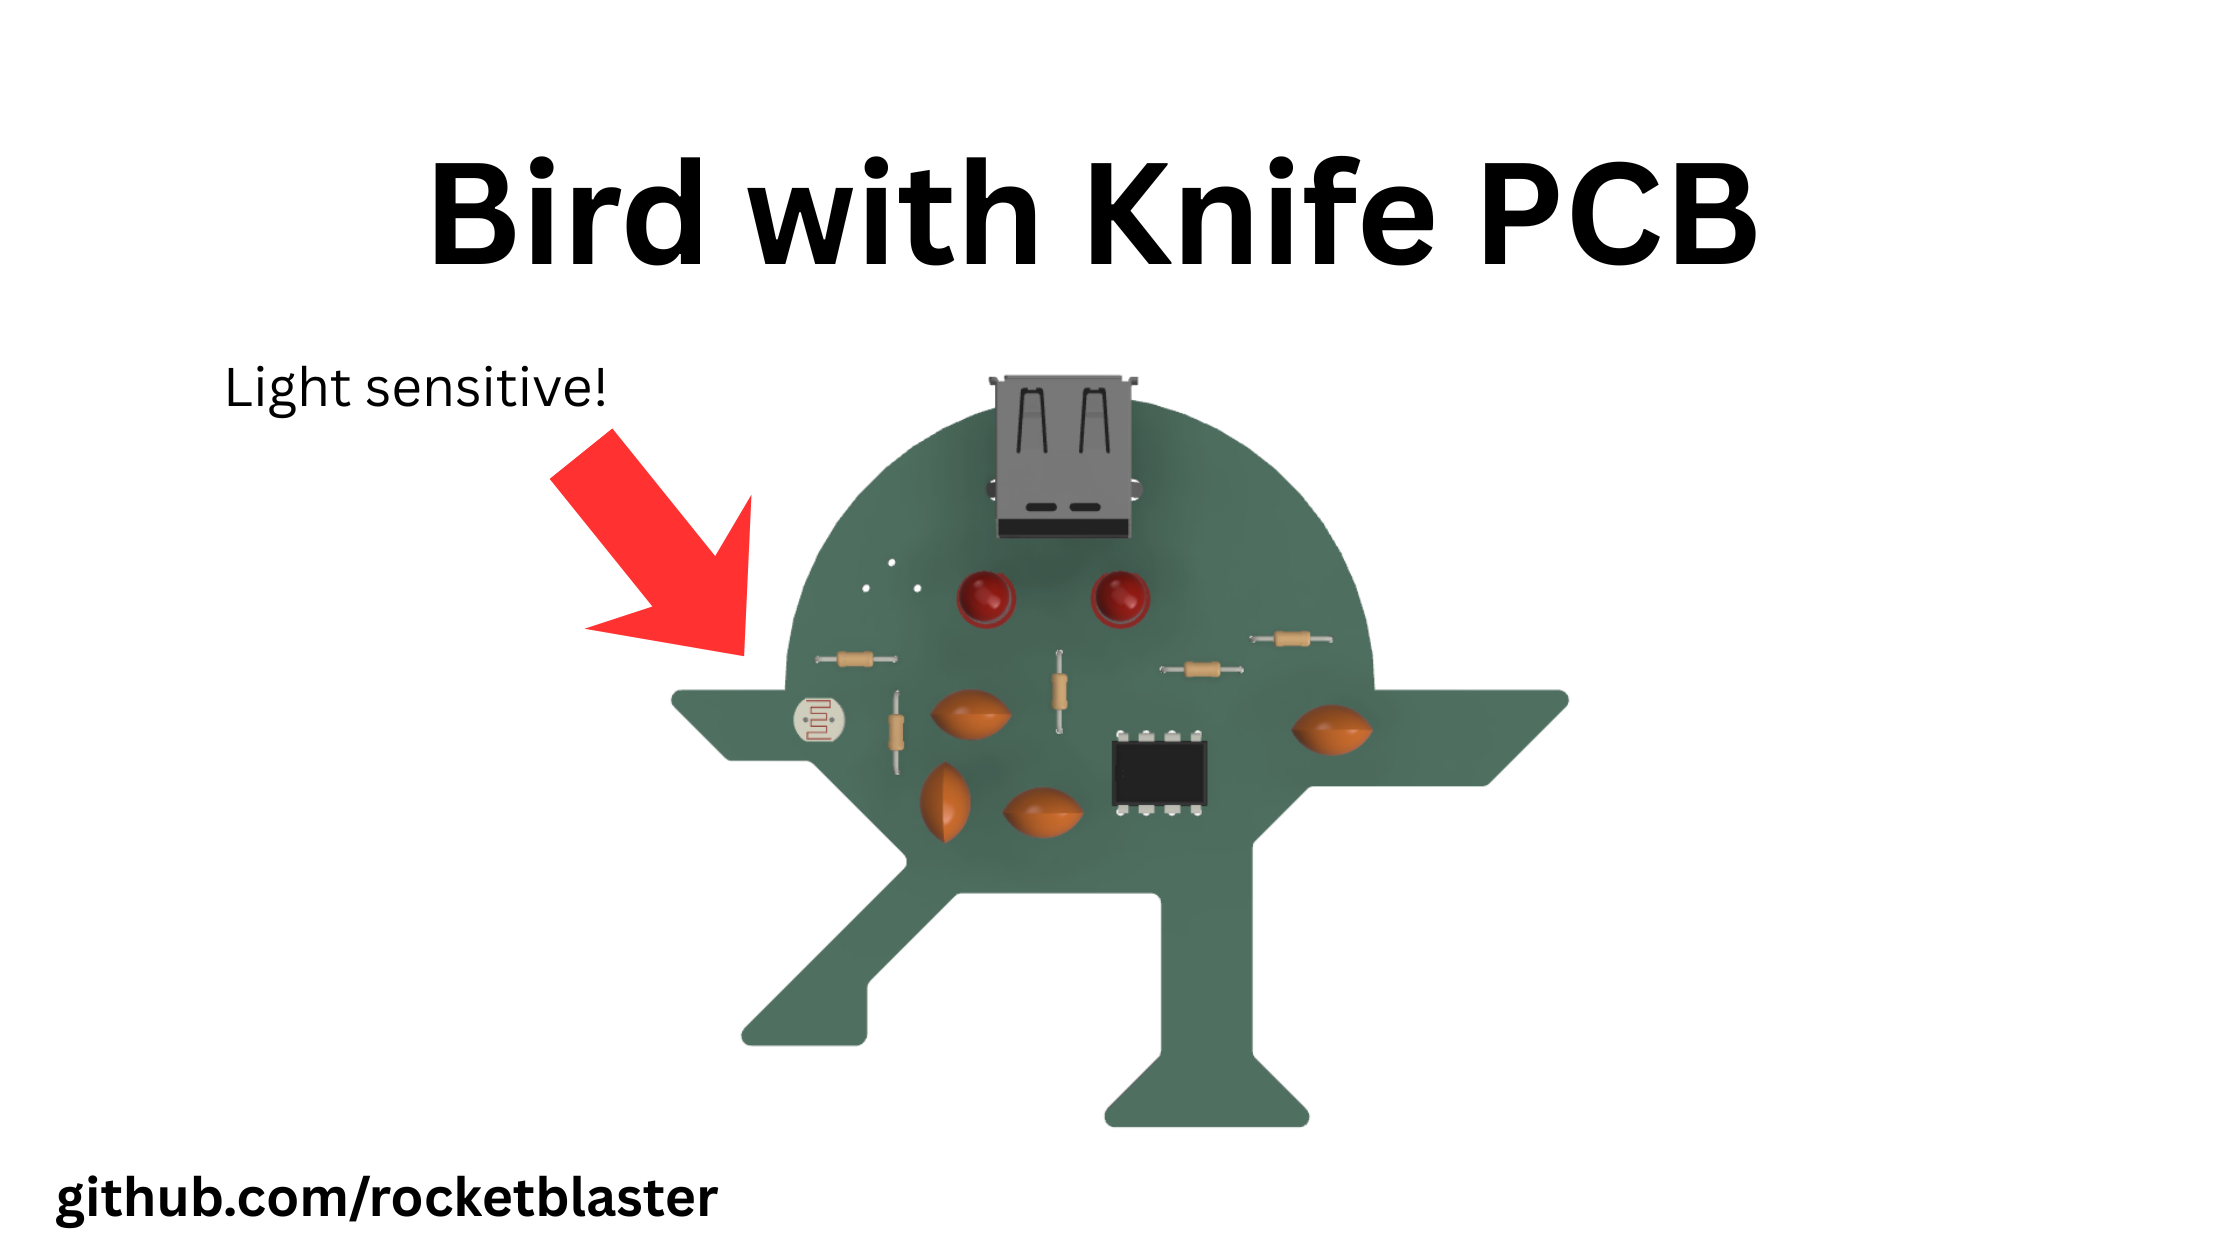
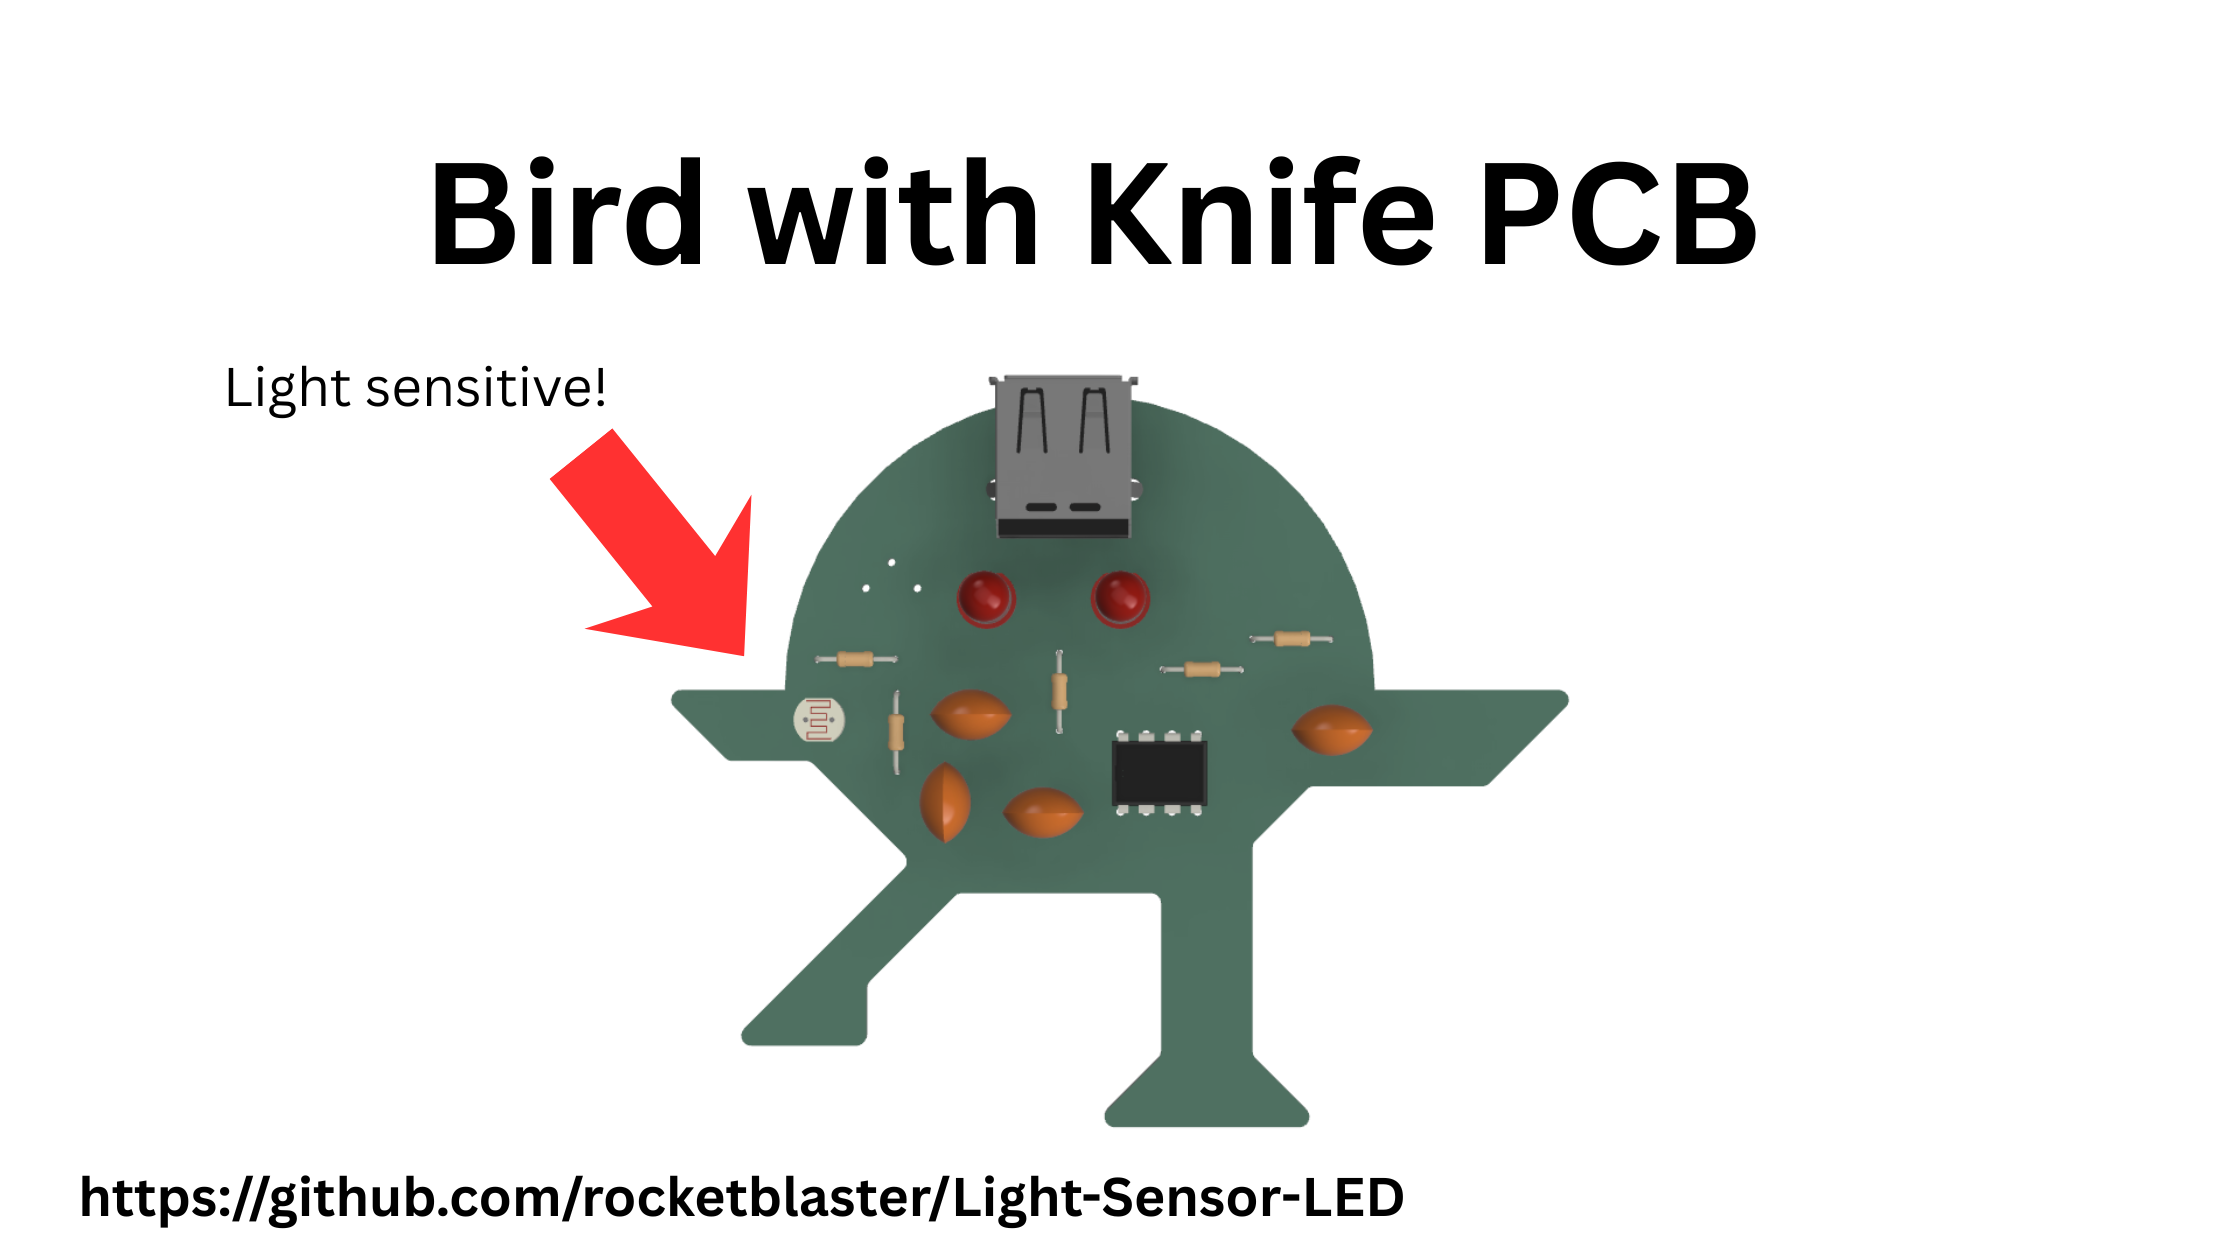
Finish Project with Feedback

Changed region(s): [[0.0312, 0.9286, 0.625, 0.9905]]

diff --git a/Journal.MD b/Journal.MD
@@ -123,3 +123,11 @@ Thus I left it as it is and most people won't think of the hero image once they 
 ![image](attachments/Bird%20with%20Knife%20PCB.png)
 
 ## Time Spent: 0.5 Hour
+
+## April 17, 2026 - Revisions
+
+After reading feedback on the project, I changed the GitHub to this repository directly. It makes sense for people to be linked directly to this project instead of a confusing profile. I moved the link to somewhere over the top because the name was too long on the bottom.
+
+![image](image23.png)
+
+I am also considering updating the Hero Image to link to this repo as well so I did. Then once I finish it I reupdated the project and production fies. The image got overwritten, and the original was initally linked to profile.
